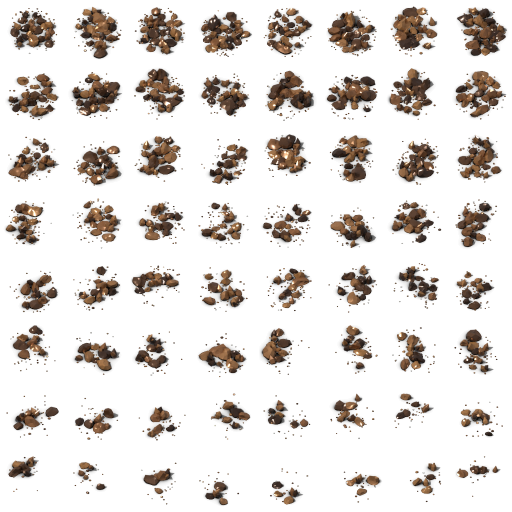
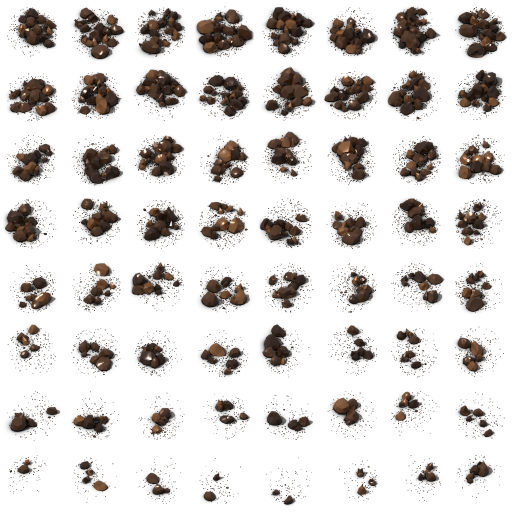
CASSITERITE : feuille C14 apres critique de DA (blocs trapus, matiere unie, poussiere sombre) ; check_gisement 7 OK, mutants 10/10
Critique independante de C9 (fo-logs/2026-10-30_RETOUR-MATIN/MINERAIS/cassiterite/CRITIQUE.md) :
copeaux plats, bigarrure cuir/ambre fondue dans le sable, gravier et paillettes de quartz.
C10 a C14 : moins de morceaux plus gros (aplat 1,15, cassures 0,62-0,88), brun et noir dominants,
plus de quartz ni de grains, poussiere fine sombre (cle facultative fin_taille du kit, defaut inchange).
Couverture C14 : 0,317 / 0,290 / 0,240 / 0,209 / 0,176 / 0,140 / 0,107 / 0,057.

diff --git a/tools/render/pieces/ressources/directions.py b/tools/render/pieces/ressources/directions.py
@@ -703,16 +703,80 @@ EFFET["C9"] = dict(EFFET["C1"])
 ICONE["C9"] = dict(ICONE["C8"], roche_mats=("cassiterite_brun", "cassiterite_cuir", "cassiterite_noir", "cassiterite_brun"),
                    lame_mats=("cassiterite_cuir", "cassiterite_ambre", "cassiterite_brun"))
 
+# C10 (critique de directeur artistique, 30/10 vers 10 h 45, CRITIQUE.md de la page) : C9 se lit en jeu comme des
+# « copeaux » et du gravier. Contre le charbon et le cuivre vanilla, trois écarts : (1) morceaux plats (cassures
+# profondes) et trop nombreux, au lieu de quelques gros blocs trapus ; (2) pièces cuir et ambre claires qui se fondent
+# dans le sable (bigarrure) au lieu d'une seule matière éclairée ; (3) grains ronds bien visibles et éclats de quartz
+# blanc (gravier, paillettes) au lieu de la POUSSIÈRE sombre et fine qui ancre les tas vanilla au sol. C10 = C9 avec
+# moins de morceaux plus gros, plus hauts et moins cassés ; brun chocolat et noir dominants (reflets par l'éclat
+# adamantin, pas par la teinte) ; presque plus de grains ; poussière fine et sombre (clé `fin_taille`).
+MAT["poussiere_etain"] = dict(color=(0.075, 0.042, 0.024), rough=0.9, met=0.0, grain=0.3, gscale=30.0, dirt=0.2)
+DIRECTIONS["C10"] = dict(DIRECTIONS["C9"], nom="gros blocs trapus et pépites bipyramidales de cassitérite brun chocolat sur poussière sombre",
+                         roches=(8, 7, 6, 5, 4, 3, 2, 2), roche_taille=(0.15, 0.21), roche_gros=(0.35, (0.22, 0.28)),
+                         roche_mats=("cassiterite_brun", "cassiterite_brun", "cassiterite_noir", "cassiterite_roux",
+                                     "cassiterite_brun", "cassiterite_noir"),
+                         touffes=(3, 3, 2, 2, 2, 1, 1, 1),
+                         lame_mats=("cassiterite_brun", "cassiterite_roux", "cassiterite_noir"),
+                         grains=(3, 3, 2, 2, 2, 1, 1, 1), grain_mats=("cassiterite_brun", "cassiterite_noir"),
+                         fins=(420, 360, 300, 250, 200, 160, 110, 70), fin_taille=(0.007, 0.012),
+                         fin_mats=("poussiere_etain", "poussiere_etain", "poussiere_etain", "sable_etain",
+                                   "cassiterite_noir"))
+CALIB["C10"] = {"SKY_GLOSSY_FACTOR": 5.0}
+ROCHE_COUPES["C10"], ROCHE_LISSE["C10"] = 5, 25
+ROCHE_APLAT["C10"], ROCHE_CASSURE["C10"] = 1.15, (0.62, 0.88)
+EFFET["C10"] = dict(EFFET["C1"])
+ICONE["C10"] = dict(ICONE["C9"], roche_aplat=1.15, roche_cassure=(0.62, 0.88),
+                    roche_mats=("cassiterite_brun", "cassiterite_noir", "cassiterite_roux", "cassiterite_brun"),
+                    lame_mats=("cassiterite_roux", "cassiterite_brun", "cassiterite_noir"))
+# C11 (essai C10 à 16 échantillons, essai5) : blocs trapus et matière unie, mieux ; mais la poussière reste en points
+# discrets (gravier) et les blocs se soudent en une seule motte ; couverture un peu haute aux stades 2 et 3 (0,290 et
+# 0,253 contre 0,270 et 0,231). C11 = C10 avec une poussière 3 fois plus dense et 2 fois plus fine (spray vanilla),
+# des blocs un peu plus écartés et un de moins aux stades 2 et 3.
+DIRECTIONS["C11"] = dict(DIRECTIONS["C10"], roche_ecart=0.23, roches=(8, 6, 5, 5, 4, 3, 2, 2),
+                         fins=(1250, 1050, 880, 730, 590, 460, 320, 190), fin_taille=(0.0035, 0.0065))
+CALIB["C11"] = dict(CALIB["C10"])
+ROCHE_COUPES["C11"], ROCHE_LISSE["C11"] = ROCHE_COUPES["C10"], ROCHE_LISSE["C10"]
+ROCHE_APLAT["C11"], ROCHE_CASSURE["C11"] = ROCHE_APLAT["C10"], ROCHE_CASSURE["C10"]
+EFFET["C11"] = dict(EFFET["C10"])
+ICONE["C11"] = dict(ICONE["C10"])
+# C12 (essai C11, essai6) : la poussière de 0,0035 à 0,0065 tuile passe sous le pixel (64 px par tuile) et disparaît ;
+# blocs inchangés. C12 = C11 avec des grains de poussière d'environ 1 px (0,008 à 0,013 tuile), 900 au stade 1.
+DIRECTIONS["C12"] = dict(DIRECTIONS["C11"], fins=(900, 780, 650, 540, 430, 340, 230, 140), fin_taille=(0.008, 0.013))
+CALIB["C12"] = dict(CALIB["C11"])
+ROCHE_COUPES["C12"], ROCHE_LISSE["C12"] = ROCHE_COUPES["C11"], ROCHE_LISSE["C11"]
+ROCHE_APLAT["C12"], ROCHE_CASSURE["C12"] = ROCHE_APLAT["C11"], ROCHE_CASSURE["C11"]
+EFFET["C12"] = dict(EFFET["C11"])
+ICONE["C12"] = dict(ICONE["C11"])
+# C13 (essai C12, essai7) : poussière fine et sombre enfin lisible, blocs trapus d'une seule matière ; couverture du
+# stade 1 un peu haute (0,342 contre 0,316, dans la tolérance de ± 0,05). C13 = C12 avec un bloc de moins au stade 1.
+# Feuille de production (128 échantillons) proposée au DC à la place de C9.
+DIRECTIONS["C13"] = dict(DIRECTIONS["C12"], roches=(7, 6, 5, 5, 4, 3, 2, 2))
+CALIB["C13"] = dict(CALIB["C12"])
+ROCHE_COUPES["C13"], ROCHE_LISSE["C13"] = ROCHE_COUPES["C12"], ROCHE_LISSE["C12"]
+ROCHE_APLAT["C13"], ROCHE_CASSURE["C13"] = ROCHE_APLAT["C12"], ROCHE_CASSURE["C12"]
+EFFET["C13"] = dict(EFFET["C12"])
+ICONE["C13"] = dict(ICONE["C12"])
+# C14 (production C13, 128 échantillons) : la direction tient (masse sombre, blocs, reflets), mais check_gisement ÉCHOUE :
+# couverture 0,317 / 0,290 / 0,240 / 0,240 / 0,210 / 0,144 / 0,111 / 0,107 (stades 3 et 4 égaux ; stade 8 à + 0,052 de
+# la vanilla). C14 = C13 avec moins de blocs aux stades 4, 5 et 8 et moins de poussière aux stades pauvres.
+DIRECTIONS["C14"] = dict(DIRECTIONS["C13"], roches=(7, 6, 5, 4, 3, 3, 2, 1),
+                         fins=(900, 740, 600, 480, 370, 280, 180, 100))
+CALIB["C14"] = dict(CALIB["C13"])
+ROCHE_COUPES["C14"], ROCHE_LISSE["C14"] = ROCHE_COUPES["C13"], ROCHE_LISSE["C13"]
+ROCHE_APLAT["C14"], ROCHE_CASSURE["C14"] = ROCHE_APLAT["C13"], ROCHE_CASSURE["C13"]
+EFFET["C14"] = dict(EFFET["C13"])
+ICONE["C14"] = dict(ICONE["C13"])
+
 # Échelle des comptes (réglée par mesure de la couverture, feuille.py --couverture) : multiplie touffes, roches,
 # blocs et grains d'une direction. 1,0 tant que rien n'est mesuré.
 ECHELLE = {"A": 1.0, "B": 1.0, "C": 1.0, "A2": 1.0, "A3": 1.0, "A4": 1.0, "I1": 1.45, "I2": 1.45, "I3": 1.45,
            "Z1": 1.6, "Z2": 1.6, "Z3": 1.6, "G1": 1.45, "K1": 1.3, "I2S": 1.45, "C1": 1.6, "B1": 1.6, "S1": 1.45, "G2": 1.45, "S2": 1.45,
-           "C2": 1.3, "C3": 1.3, "C4": 1.3, "C5": 1.3, "C6": 1.3, "C7": 1.3, "C8": 1.5, "C9": 1.5}
+           "C2": 1.3, "C3": 1.3, "C4": 1.3, "C5": 1.3, "C6": 1.3, "C7": 1.3, "C8": 1.5, "C9": 1.5, "C10": 1.5, "C11": 1.5, "C12": 1.5, "C13": 1.5, "C14": 1.5}
 
 # Graine de chaque direction (hasard local déterministe). A2 à A4 gardent la graine de A : mêmes positions.
 GRAINE = {"A": 5101, "B": 5202, "C": 5303, "A2": 5101, "A3": 5101, "A4": 5101, "I1": 6111, "I2": 6111, "I3": 6111,
           "Z1": 6212, "Z2": 6212, "Z3": 6212, "G1": 6313, "K1": 6414, "I2S": 6111, "C1": 6515, "B1": 6616, "S1": 6717, "G2": 6313, "S2": 6717,
-          "C2": 6515, "C3": 6515, "C4": 6515, "C5": 6515, "C6": 6515, "C7": 6515, "C8": 6515, "C9": 6515}
+          "C2": 6515, "C3": 6515, "C4": 6515, "C5": 6515, "C6": 6515, "C7": 6515, "C8": 6515, "C9": 6515, "C10": 6515, "C11": 6515, "C12": 6515, "C13": 6515, "C14": 6515}
 
 # Grille de rendu : 8 variantes (colonnes) × 8 stades (lignes) + une ligne d'icônes (icône + 3 images d'objet).
 COLONNES = 8

diff --git a/tools/render/pieces/ressources/gisement.py b/tools/render/pieces/ressources/gisement.py
@@ -297,20 +297,20 @@ def cellule(S, C, mats, lave, d, cle, r, c, stade, rng, icone=False):
         for gx, gy in places(n_g, rayon * 1.12, 0.05, [], 1.4):
             v, f = grain(rng, rng.uniform(0.022, 0.045))
             ajoute(rng.choice(d["grain_mats"]), v, f, gx, gy)
-        fins = d.get("fins", D.FINS)
+        fins = d.get("fins", D.FINS)  # clé facultative `fin_taille` (C10) : taille des grains fins
         if fins:
             d = dict(d, fin_mats=d.get("fin_mats", D.FIN_MATS))
             n_f = _compte(fins, stade, 1.0, rng)
             if amas:
                 # tapis de grains fins sous les amas (la « poussière » colorée des minerais vanilla)
                 for gx, gy in places(n_f, rayon * 1.15, 0.0, [], 1.9):
-                    v, f = grain(rng, rng.uniform(0.016, 0.026))
+                    v, f = grain(rng, rng.uniform(*d.get("fin_taille", (0.016, 0.026))))
                     ajoute(rng.choice(d["fin_mats"]), v, f, gx, gy)
             else:
                 for _ in range(n_f):
                     a = rng.uniform(0, 2 * math.pi)
                     r = rayon * 1.15 * math.sqrt(rng.random())
-                    v, f = grain(rng, rng.uniform(0.016, 0.026))
+                    v, f = grain(rng, rng.uniform(*d.get("fin_taille", (0.016, 0.026))))
                     ajoute(rng.choice(d["fin_mats"]), v, f, r * math.cos(a), r * math.sin(a))
         for nom_mat in sorted(acc):
             V, F = acc[nom_mat]
